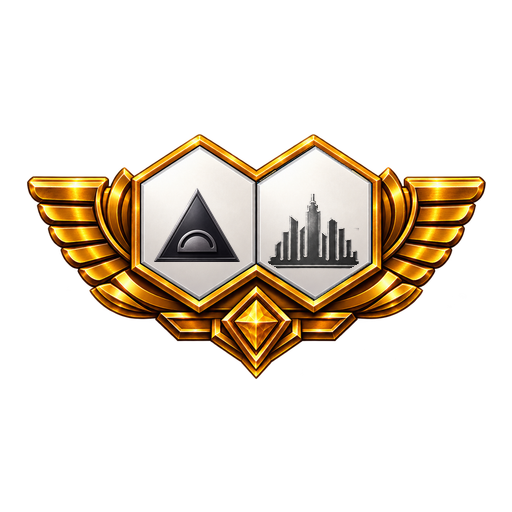
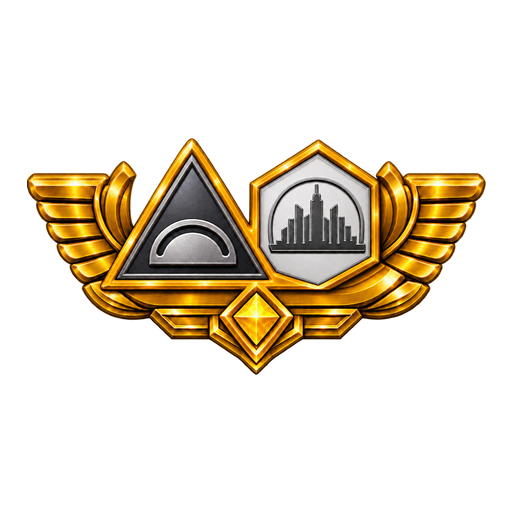
Constructor award · the generated premium badge replaces phase 1's composite (Highlander's fused pair · a TRIANGULAR colony socket + a hex city socket); the fit entry measures the same; worklist 14/15

Changed region(s): [[0.0312, 0.25, 0.9688, 0.75]]

diff --git a/docs/claude/ma-premium-icons-worklist.md b/docs/claude/ma-premium-icons-worklist.md
@@ -31,19 +31,18 @@
 | 11 | ✅ **Rugged** | Ares | Больше всех своих плиток рядом с опасностями | плитка игрока + плитка опасности, «огненные» крылья | `highlander` / `tourist` (пара плиток) |
 | 12 | ✅ **Administrator** | модульная | Больше всех карт без меток в игре (события не считаются) | «✕»-метка на пьедестале | `a-manufacturer` (карта в рамке): лицо синее / зелёное по диагонали (любая не-событийная) + `tag-none` в золотой оправе по центру |
 | 13 | ✅ **Collector** | модульная | Больше всех РАЗНЫХ типов ресурсов: стандартные на складе (>0) + каждый тип ресурса на картах | разноцветная «?» на пьедестале | `venuphile` (медальон): розетка из четырёх РАЗНЫХ плиток — тепло · титан (планшет) + флоатер · наука (карты) |
-| 14 | ✅ **Constructor** | модульная, нужны Колонии | Больше всех колоний + городов вместе (ярусы небоскрёба считаются каждый) | колония + город, с крыльями | `cosmic-settler` / `highlander` |
+| 14 | ✅ **Constructor** | модульная, нужны Колонии | Больше всех колоний + городов вместе (ярусы небоскрёба считаются каждый) | колония + город, с крыльями | `highlander` (пара): слева ТРЕУГОЛЬНОЕ гнездо с плиткой колонии, справа шестиугольное с городом, сросшиеся — сгенерированный арт (заменил композит фазы 1) |
 | 15 | **Suburbian** | модульная | Больше всех своих плиток на краевых клетках поля (опасности не считаются) | шестиугольник с оранжевым краем и белым центром | `landscaper` (сетка в медальоне) |
 
 ## Пришли с Amazonis Planitia (апстрим fc8bd8e0e1, 2026-11-06) — сделаны композитами семьи (3)
 
 2026-11-06 (фаза 1 карты): Merchant3 = `merchant` с плашкой «3» из `sponsor`; Innovator = рамка `a-manufacturer`, лицо
 зелёное / синее / красное по диагонали (семья `administrator`); Physicist = `traveller` с медальонами `scientist` +
-`space-baron`; Constructor (№14) = `highlander`, слева плитка колонии (`tiles/colony.png`), справа силуэт города
-(`cosmic-settler`). Подгонка (`maArtFit.json`) — запись базы. Владелец может заменить любой своим артом.
+`space-baron`; Constructor (№14) — композит заменён сгенерированным артом того же каркаса (треугольник колонии + шестиугольник города).
+Подгонка (`maArtFit.json`) — запись базы. Владелец может заменить любой своим артом.
 
 Печатный набор карты: вехи Terran5 · Landshaper · Merchant3 · Sponsor · Activist (без Парламента — Terraformer29), награды
-Collector · Innovator · Constructor · Manufacturer · Physicist. Новые и без файла `assets/ma/<slug>.png` (лицо падает в
-заглушку `MaHeroArt` @error) — три ниже. Сейчас они выпадают ТОЛЬКО в печатном наборе этой карты: в случайные пулы
+Collector · Innovator · Constructor · Manufacturer · Physicist. Новые — три ниже (до фазы 1 без файла `assets/ma/<slug>.png`). Сейчас они выпадают ТОЛЬКО в печатном наборе этой карты: в случайные пулы
 Innovator и Physicist войдут с фазой 2 адаптации (строки бота, `PENDING_ADAPTATION_MA`), Merchant3 — никогда (клон Merchant).
 
 | # | Позиция | Тип | Механика (по коду) | Семья-образец |
